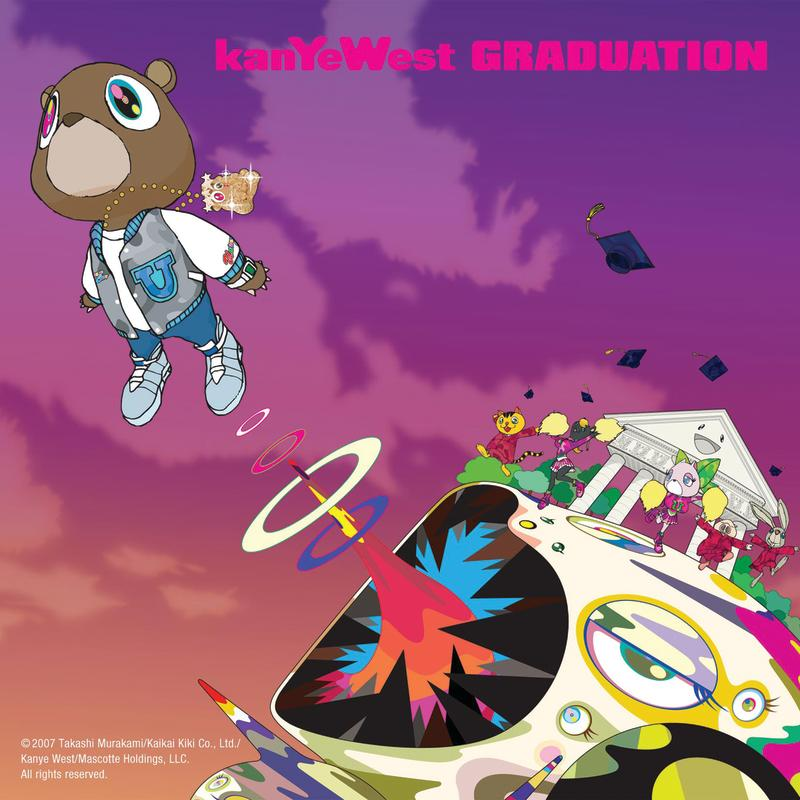
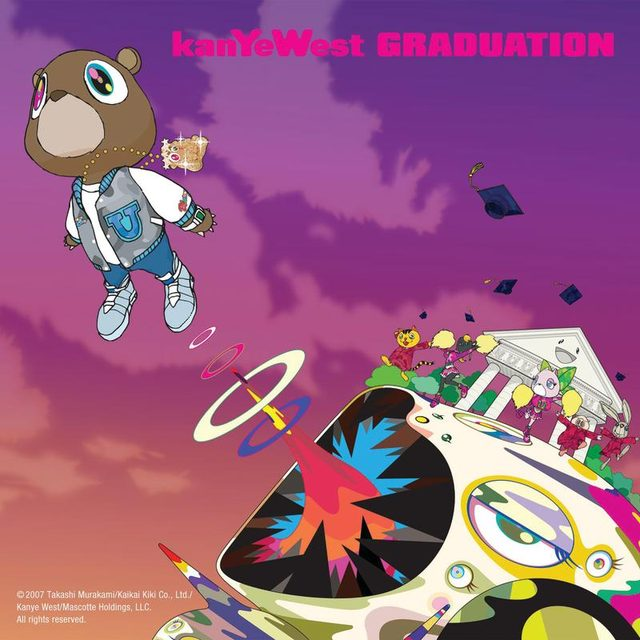
fix: 修复加载界面鼠标消失、压缩专辑封面提速、数字分身流彩边框对齐

diff --git a/index.html b/index.html
@@ -68,20 +68,11 @@
     transition: transform .15s, box-shadow .15s;
   }
   .box:hover { transform: translate(-3px, -3px); box-shadow: 11px 11px 0 #111; }
-  .about-card, .tl-card, .work-card, .album-card, .chat { position: relative; }
+  .about-card, .tl-card, .work-card, .album-card, .chat-flow { position: relative; }
   @keyframes flowSpin { to { --flow: 360deg; } }
   @supports ((mask-composite: exclude) or (-webkit-mask-composite: xor)) {
-    .box::before, .about-card::before, .tl-card::before, .work-card::before, .album-card::before {
+    .box::before, .about-card::before, .tl-card::before, .work-card::before, .album-card::before, .chat-flow::before {
       content: ''; position: absolute; inset: -3px; padding: 3px; pointer-events: none;
-      background: conic-gradient(from var(--flow), #ff6b9d, #ffd63d, #4d96ff, #6bcb77, #4cc9f0, #ff6b9d);
-      -webkit-mask: linear-gradient(#fff 0 0) content-box, linear-gradient(#fff 0 0);
-      -webkit-mask-composite: xor;
-      mask: linear-gradient(#fff 0 0) content-box, linear-gradient(#fff 0 0);
-      mask-composite: exclude;
-      animation: flowSpin 2.5s linear infinite;
-    }
-    .chat::before {
-      content: ''; position: absolute; inset: 0; padding: 3px; pointer-events: none;
       background: conic-gradient(from var(--flow), #ff6b9d, #ffd63d, #4d96ff, #6bcb77, #4cc9f0, #ff6b9d);
       -webkit-mask: linear-gradient(#fff 0 0) content-box, linear-gradient(#fff 0 0);
       -webkit-mask-composite: xor;
@@ -337,7 +328,7 @@
   }
   @media (hover: hover) and (pointer: fine) {
     body, a, button, input, textarea, select, label { cursor: none; }
-    .cursor-wrap { position: fixed; top: 0; left: 0; z-index: 9999; pointer-events: none; will-change: transform; }
+    .cursor-wrap { position: fixed; top: 0; left: 0; z-index: 10001; pointer-events: none; will-change: transform; }
     .cursor-dot {
       width: 16px; height: 16px; margin: -8px 0 0 -8px;
       background: #ff6b9d; border: 3px solid #111; border-radius: 50%;
@@ -345,7 +336,7 @@
     }
     body.cursor-hover .cursor-dot { background: #4d96ff; transform: scale(1.5); }
     .trail-particle {
-      position: fixed; top: 0; left: 0; z-index: 9998;
+      position: fixed; top: 0; left: 0; z-index: 10000;
       width: 11px; height: 11px; border-radius: 2px;
       pointer-events: none;
       animation: trail-fade .55s ease-out forwards;
@@ -568,6 +559,7 @@
     <div class="twin-avatar">
       <img src="assets/twin-avatar.png" alt="谢子赫的数字分身形象" width="116" height="116">
     </div>
+    <div class="chat-flow">
     <div class="chat" id="chatBox">
       <div class="msg a"><span class="who" data-zh="子赫的分身" data-en="ZIHE'S TWIN">子赫的分身</span><span data-zh="嗨，我是子赫的数字分身 👋 学校、篮球、音乐、座右铭、作品……想了解本体什么，随便问！" data-en="Hey, I'm Zihe's digital twin 👋 School, basketball, music, motto, projects — ask me anything about the real guy!">嗨，我是子赫的数字分身 👋 学校、篮球、音乐、座右铭、作品……想了解本体什么，随便问！</span></div>
       <div class="msg q" data-zh="子赫平时喜欢做什么？" data-en="What does Zihe like to do?">子赫平时喜欢做什么？</div>
@@ -576,6 +568,7 @@
       <div class="msg a"><span class="who" data-zh="子赫的分身" data-en="ZIHE'S TWIN">子赫的分身</span><span data-zh="朋友认证的热血行动派。座右铭“落子无悔”——想了就干，干了不悔。大学四年的目标是做出自己的产品。" data-en="A certified man of action. His motto: 'Make the move, no regrets.' His four-year goal: build a product of his own.">朋友认证的热血行动派。座右铭“落子无悔”——想了就干，干了不悔。大学四年的目标是做出自己的产品。</span></div>
       <div class="msg q" data-zh="能介绍一下他的项目吗？" data-en="Tell me about his project.">能介绍一下他的项目吗？</div>
       <div class="msg a"><span class="who" data-zh="子赫的分身" data-en="ZIHE'S TWIN">子赫的分身</span><span data-zh="机器人竞赛做过一辆太空车：自主前进、钮子开关自动返航。现在正苦练 Vibe Coding，下一步想搞个自己的 APP。" data-en="He built a space rover for a robotics competition: autonomous forward run plus toggle-switch auto-return. Now grinding Vibe Coding — next up, an app of his own.">机器人竞赛做过一辆太空车：自主前进、钮子开关自动返航。现在正苦练 Vibe Coding，下一步想搞个自己的 APP。</span></div>
+    </div>
     </div>
     <div class="quick-chips" id="quickChips"></div>
     <div class="chat-input">
